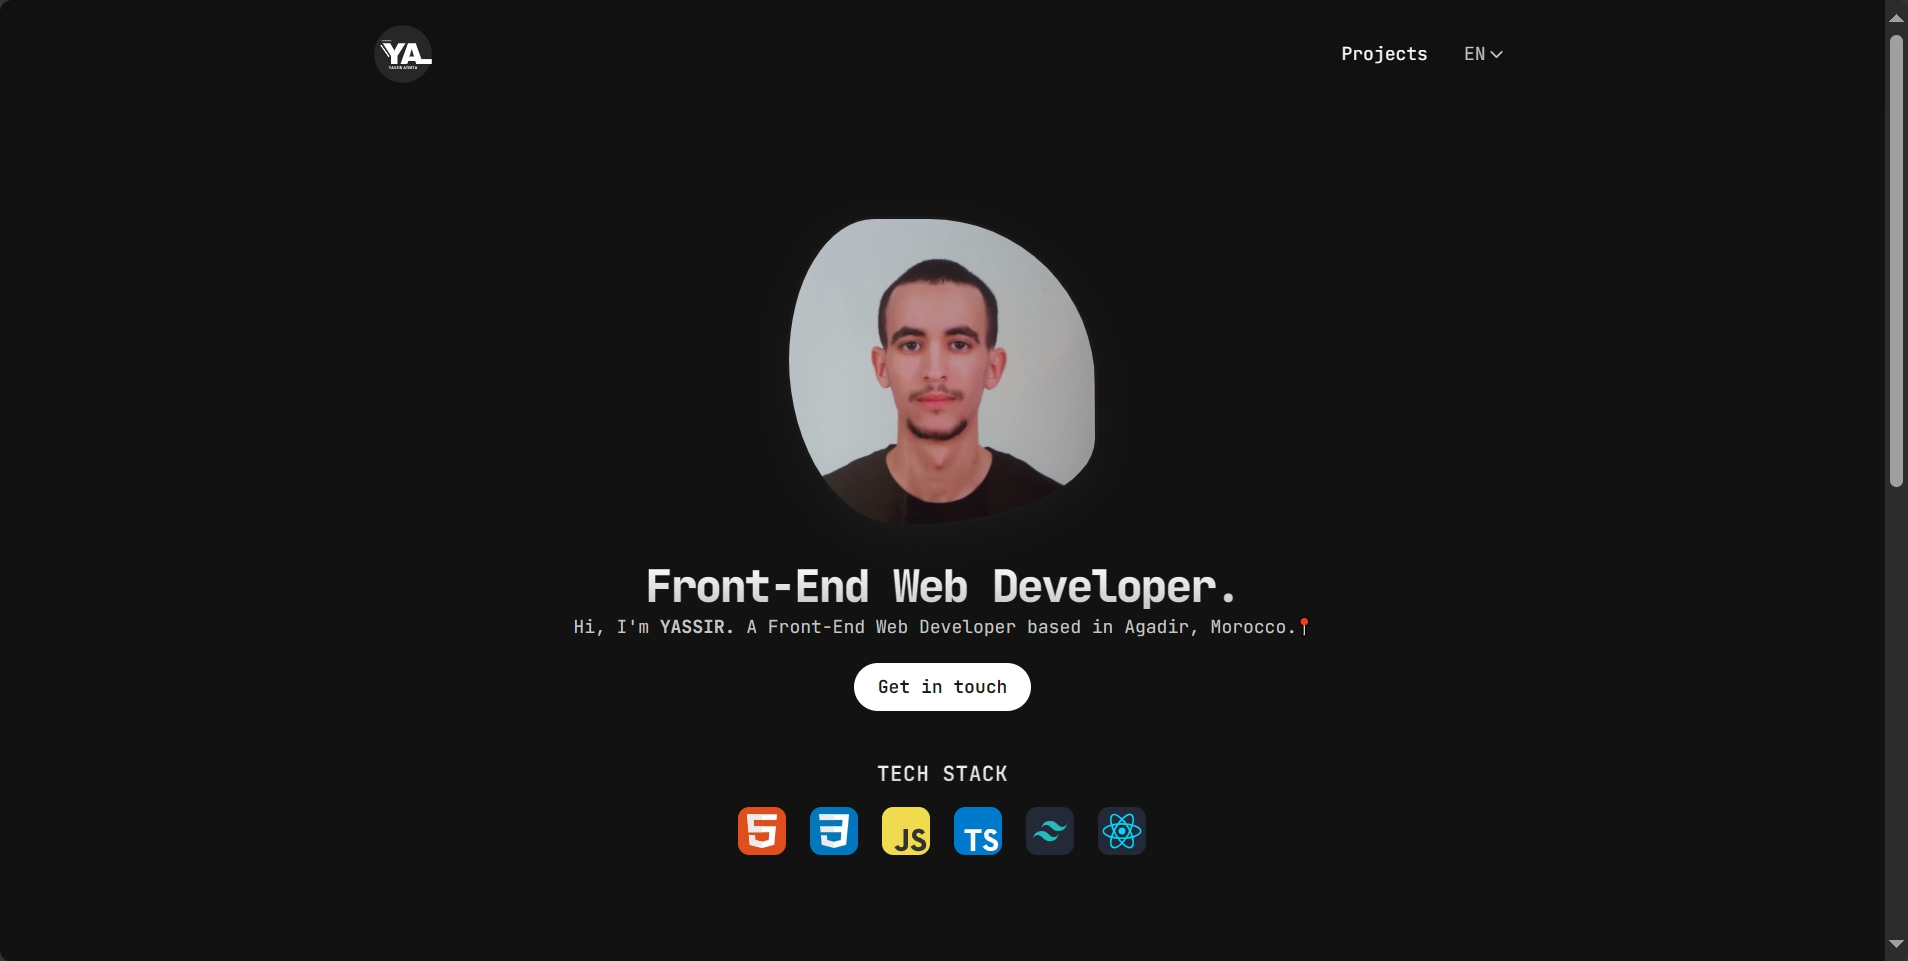
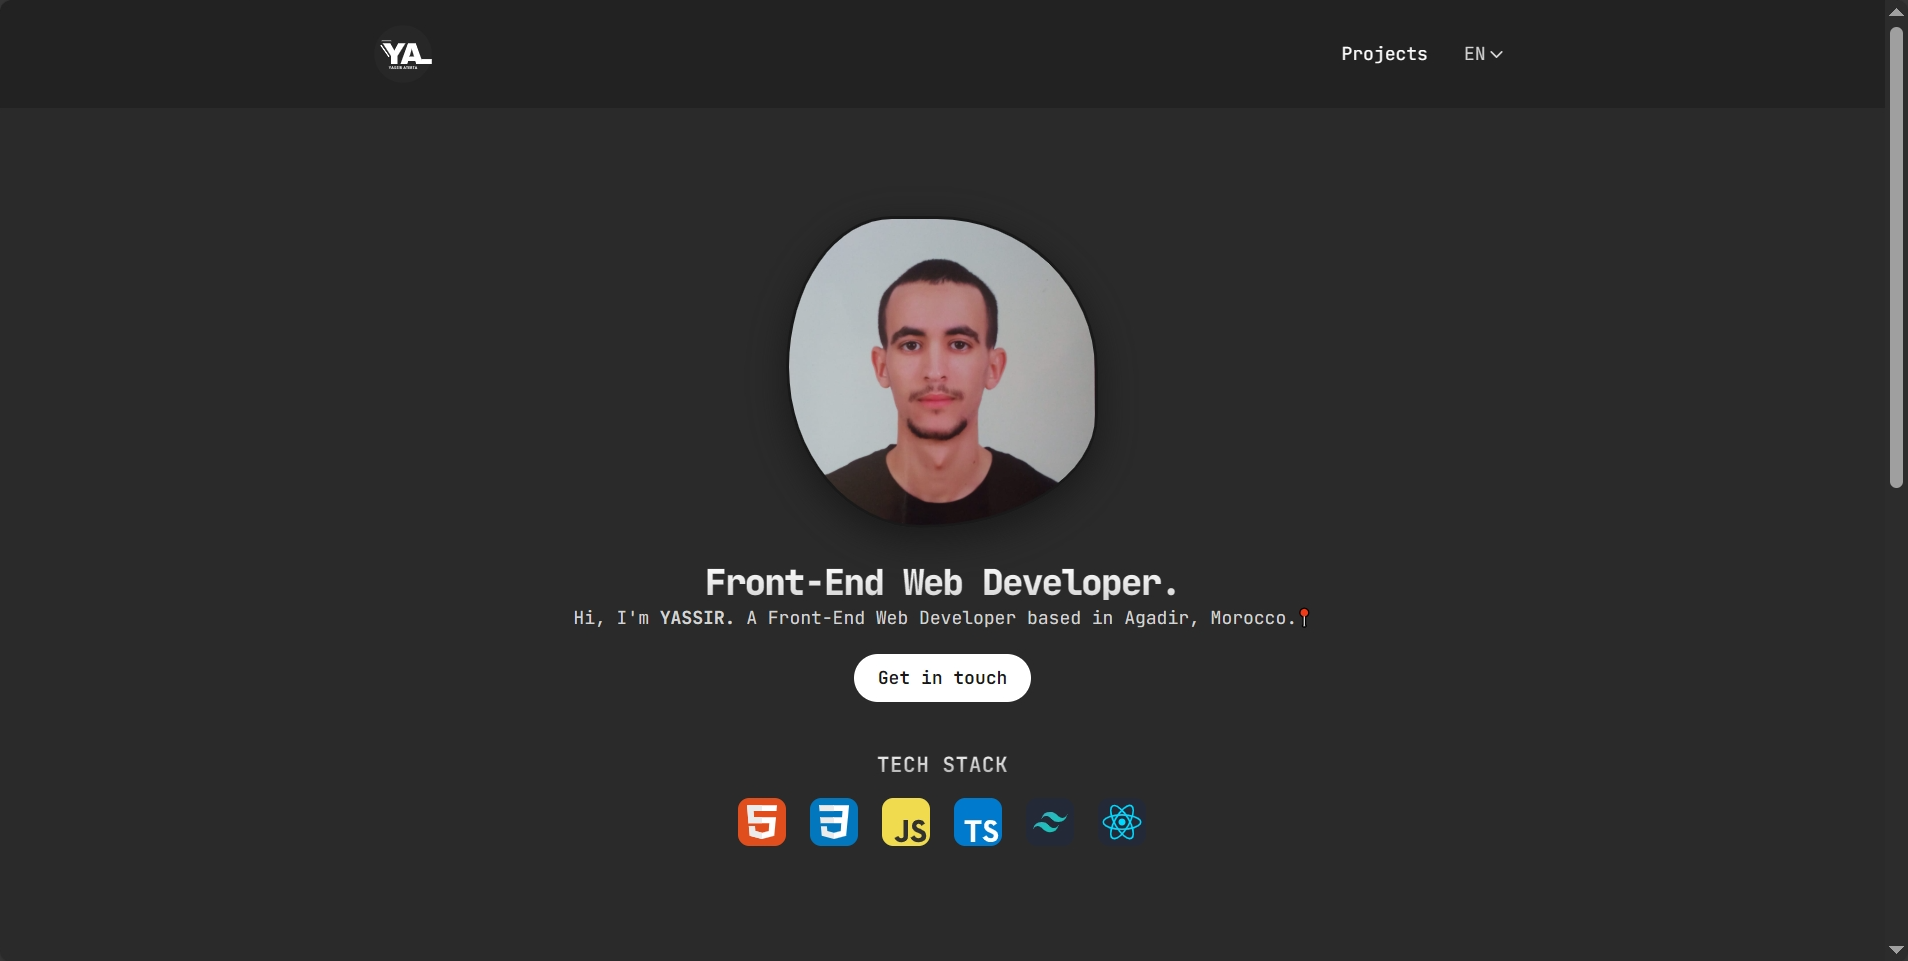
style: change colors

diff --git a/src/components/Hero.tsx b/src/components/Hero.tsx
@@ -8,14 +8,14 @@ const lang = getLang() as LanguageKey;
 
 export const Hero = () => {
   return (
-    <div className="animate-fadein mt-8 grid place-content-center place-items-center gap-6 px-6 py-10 xl:py-16">
+    <div className="animate-fadein mt-4 grid place-content-center place-items-center gap-6 px-6 py-10 md:mt-8 xl:py-16">
       <div className="img aspect-square w-52 bg-[url('/me-yassir.jpeg')] bg-cover bg-no-repeat"></div>
       <div className="grid gap-2 text-center">
         <div className="grid gap-2 md:gap-1">
-          <h1 className="to-secondary bg-gradient-to-b from-white bg-clip-text text-3xl leading-none font-extrabold tracking-tighter text-transparent xl:text-3xl">
+          <h1 className="bg-gradient-to-b from-white to-neutral-300 bg-clip-text text-2xl leading-none font-extrabold tracking-tighter text-transparent xl:text-3xl">
             {resources[lang].hero.title}
           </h1>
-          <p className="text-secondary text-xs">
+          <p className="text-xs text-neutral-300">
             <span>
               {resources[lang].hero.greeting}
               <strong className="uppercase">
@@ -25,13 +25,13 @@ export const Hero = () => {
             <span> {resources[lang].hero.desc}</span>
           </p>
         </div>
-        <button className="text-dark hover:bg-secondary active:bg-secondary mx-auto mt-2 rounded-2xl bg-white px-4 py-2 text-xs font-semibold transition-colors duration-300 ease-in-out">
-          <a href="#contact" className="">
+        <button className="mx-auto mt-2 rounded-2xl bg-white px-4 py-2 text-xs text-neutral-900 transition-colors duration-300 ease-in-out hover:bg-neutral-300 active:bg-neutral-400">
+          <a href="#contact" className="font-semibold">
             {resources[lang].hero.contact}
           </a>
         </button>
         <div className="grid gap-3 pt-6">
-          <h3 className="to-secondary bg-gradient-to-b from-white bg-clip-text text-sm font-bold tracking-wide text-transparent uppercase">
+          <h3 className="bg-gradient-to-b from-white to-neutral-400 bg-clip-text text-sm font-bold tracking-wide text-transparent uppercase">
             {resources[lang].hero.tech}
           </h3>
           <ul className="flex items-center justify-center gap-4">
@@ -39,7 +39,7 @@ export const Hero = () => {
               <li key={stack.id}>
                 <img
                   src={stack.src}
-                  alt={stack.src}
+                  alt={stack.title}
                   loading="lazy"
                   className="w-8 transition-transform duration-500 ease-in-out hover:-translate-y-1 active:-translate-y-1"
                 />

diff --git a/src/components/LangSelector.tsx b/src/components/LangSelector.tsx
@@ -9,7 +9,7 @@ const LangSelector = ({ langName }) => {
     keyof typeof langList
   >;
 
-  let lang = langName;
+  const lang = langName;
   let pagePath = window.location.pathname.split(lang)[1];
   pagePath = pagePath.split("/")[1];
   if (!pagePath) {
@@ -22,7 +22,7 @@ const LangSelector = ({ langName }) => {
   const buttonRef = useRef<HTMLButtonElement>(null);
 
   useEffect(() => {
-    const handleClickOutside = (event: any) => {
+    const handleClickOutside = (event) => {
       if (
         menuRef.current &&
         !menuRef.current.contains(event.target) &&
@@ -49,7 +49,7 @@ const LangSelector = ({ langName }) => {
         type="button"
         ref={buttonRef}
         onClick={() => handleClickOutside()}
-        className="hover:bg-nav text-secondary flex items-center rounded px-2 py-1 font-light transition-colors duration-200 ease-in-out hover:text-white"
+        className="flex items-center rounded px-2 py-1 font-light text-neutral-300 transition-colors duration-200 ease-in-out hover:text-white"
       >
         {langFullName}
 
@@ -72,7 +72,7 @@ const LangSelector = ({ langName }) => {
         {showLngMenu ? (
           <motion.div
             ref={menuRef}
-            className={`shadow-box bg-secondary text-dark absolute top-10 grid gap-2 rounded-sm py-1 ${lang == "ar" ? "left-0 origin-top-left" : "right-1 origin-top-right"}`}
+            className={`text-dark absolute top-10 grid gap-2 rounded-sm bg-neutral-900 py-1 shadow-sm shadow-neutral-700 ${lang == "ar" ? "left-0 origin-top-left" : "right-1 origin-top-right"}`}
             initial={{ opacity: 0, scale: 0, translateY: -20 }}
             animate={{ opacity: 1, scale: 1, translateY: 0 }}
             exit={{ opacity: 0, scale: 0, translateY: -20 }}
@@ -81,7 +81,7 @@ const LangSelector = ({ langName }) => {
             {langKeys.map((l) => (
               <div
                 key={l}
-                className="grid px-3 py-0.5 text-center transition-all duration-200 ease-in-out hover:scale-105 hover:bg-white active:bg-white"
+                className="grid px-3 py-0.5 text-center transition-all duration-200 ease-in-out hover:scale-105 hover:bg-neutral-700 active:bg-white"
               >
                 <a
                   href={"/" + l + pathName}

diff --git a/src/components/Contact.tsx b/src/components/Contact.tsx
@@ -9,7 +9,7 @@ export const Contact = () => {
   return (
     <section className="bg-contact px-4 py-12" id="contact">
       <div className="mx-auto grid max-w-2xl gap-4">
-        <h1 className="text-lg font-bold tracking-wide uppercase lg:text-xl xl:text-xl">
+        <h1 className="text-lg font-bold tracking-wide uppercase md:text-xl">
           {resources[lang].contact.title}
         </h1>
         <p className="flex items-center gap-3">
@@ -23,19 +23,19 @@ export const Contact = () => {
             strokeWidth="2.5"
             strokeLinecap="round"
             strokeLinejoin="round"
-            className="lucide lucide-mail-icon lucide-mail text-secondary"
+            className="lucide lucide-mail-icon lucide-mail text-neutral-300"
           >
             <path d="m22 7-8.991 5.727a2 2 0 0 1-2.009 0L2 7" />
             <rect x="2" y="4" width="20" height="16" rx="2" />
           </svg>
           <a
             href="mailto:yassiraterta@gmail.com"
-            className="text-secondary text-xs tracking-wide transition-colors duration-300 hover:text-white"
+            className="text-xs tracking-wide text-neutral-200 transition-colors duration-300 hover:text-white"
           >
             yassiraterta@gmail.com
           </a>
         </p>
-        <p className="text-secondary text-xs">
+        <p className="text-xs text-neutral-400">
           <span>{resources[lang].contact.parag1}</span>
           <br />
           <span>{resources[lang].contact.parag2}</span>
@@ -50,7 +50,7 @@ export const Contact = () => {
                 <img
                   src={social.src}
                   alt={social.src}
-                  className="size-5 text-white xl:size-6"
+                  className="size-5 text-white md:size-6"
                 />
               </a>
             </li>

diff --git a/src/index.css b/src/index.css
@@ -5,25 +5,22 @@
 @theme {
   --font-main: "JetBrains Mono", system-ui;
 
-  --color-dark: #191919;
-  --color-nav: #0c0c0c;
-  --color-hero: #121212;
-  --color-contact: #161616;
+  --color-nav: #222222;
+  --color-hero: #2a2a2a;
+  --color-contact: #191919;
   --color-secondary: #c5c5c5;
   --color-blue: #5badff;
 
   --color-softOrange: #ff8660;
   --color-boldOrange: #d5491d;
 
-  /* --shadow-box: var(--color-secondary) 0px 2px 8px 0px; */
-
   --animate-fadein: fade linear 1s;
 }
 
 .img {
   border-radius: 60% 40% 30% 70%/60% 30% 70% 40%;
-  box-shadow: var(--color-dark) 0px 8px 24px;
-  border: 2px solid var(--color-dark);
+  box-shadow: var(--color-contact) 0px 8px 24px;
+  border: 2px solid var(--color-contact);
   position: relative;
   transition: all 1s ease-in-out;
   animation: alpha 8s ease-in-out infinite;

diff --git a/src/components/Projects.tsx b/src/components/Projects.tsx
@@ -30,7 +30,7 @@ export const Projects = () => {
               className="flex items-center justify-between px-4"
             >
               <p className="grid">
-                <span className="text-secondary text-xs uppercase">
+                <span className="text-xs text-neutral-400 uppercase">
                   {resources[lang].hero.link}
                 </span>
                 <span className="text-sm font-medium capitalize">

diff --git a/src/assets/data.ts b/src/assets/data.ts
@@ -24,26 +24,32 @@ export const tech = [
   {
     id: 1,
     src: html,
+    title: "html",
   },
   {
     id: 2,
     src: css,
+    title: "css",
   },
   {
     id: 3,
     src: js,
+    title: "JavaScript",
   },
   {
     id: 4,
     src: ts,
+    title: "TypeScript",
   },
   {
     id: 5,
     src: tailwind,
+    title: "Tailwind CSS",
   },
   {
     id: 6,
     src: react,
+    title: "React js",
   },
 ];
 
